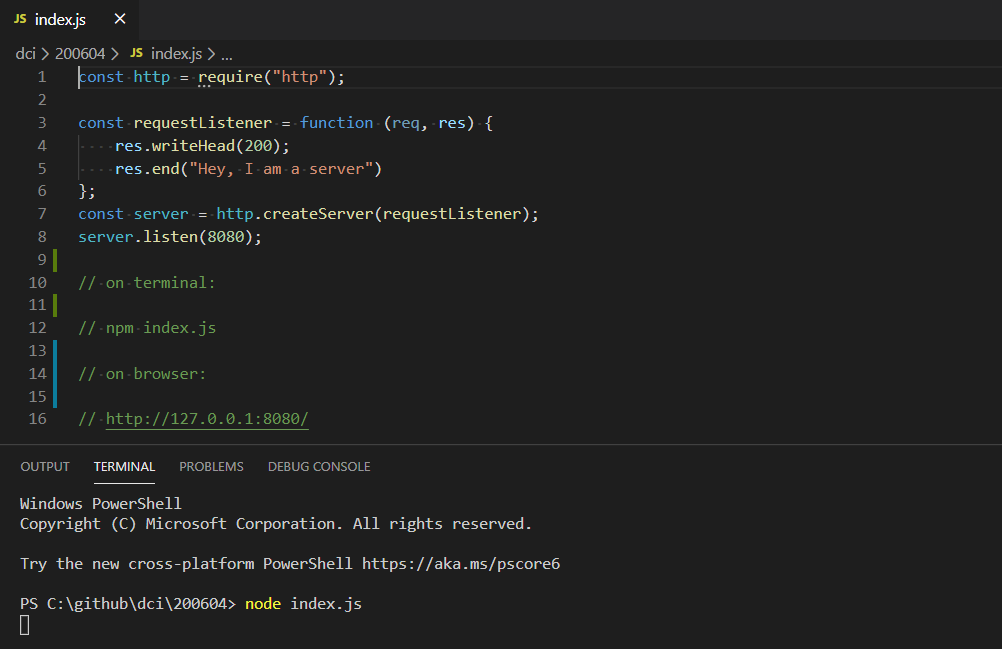
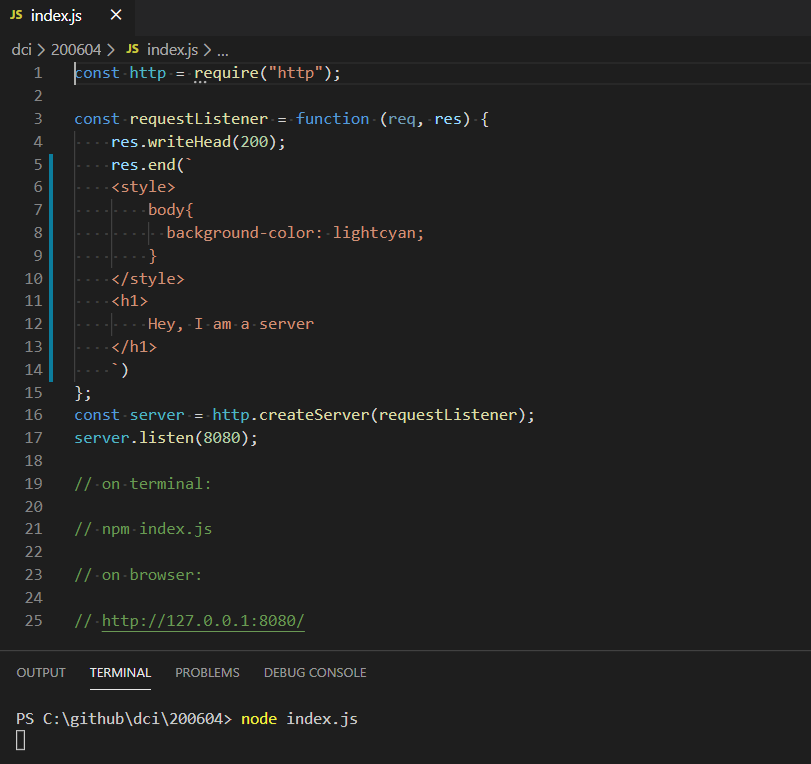
Node.js

Changed region(s): [[0.0, 0.0, 0.6473, 0.9861], [0.2466, 0.4006, 0.4007, 0.4314]]

diff --git a/200604/index.js b/200604/index.js
@@ -2,7 +2,16 @@ const http = require("http");
 
 const requestListener = function (req, res) {
     res.writeHead(200);
-    res.end("Hey, I am a server")
+    res.end(`
+    <style>
+        body{
+          background-color: lightcyan;
+        }
+    </style>
+    <h1>
+        Hey, I am a server
+    </h1>
+    `)
 };
 const server = http.createServer(requestListener);
 server.listen(8080);
